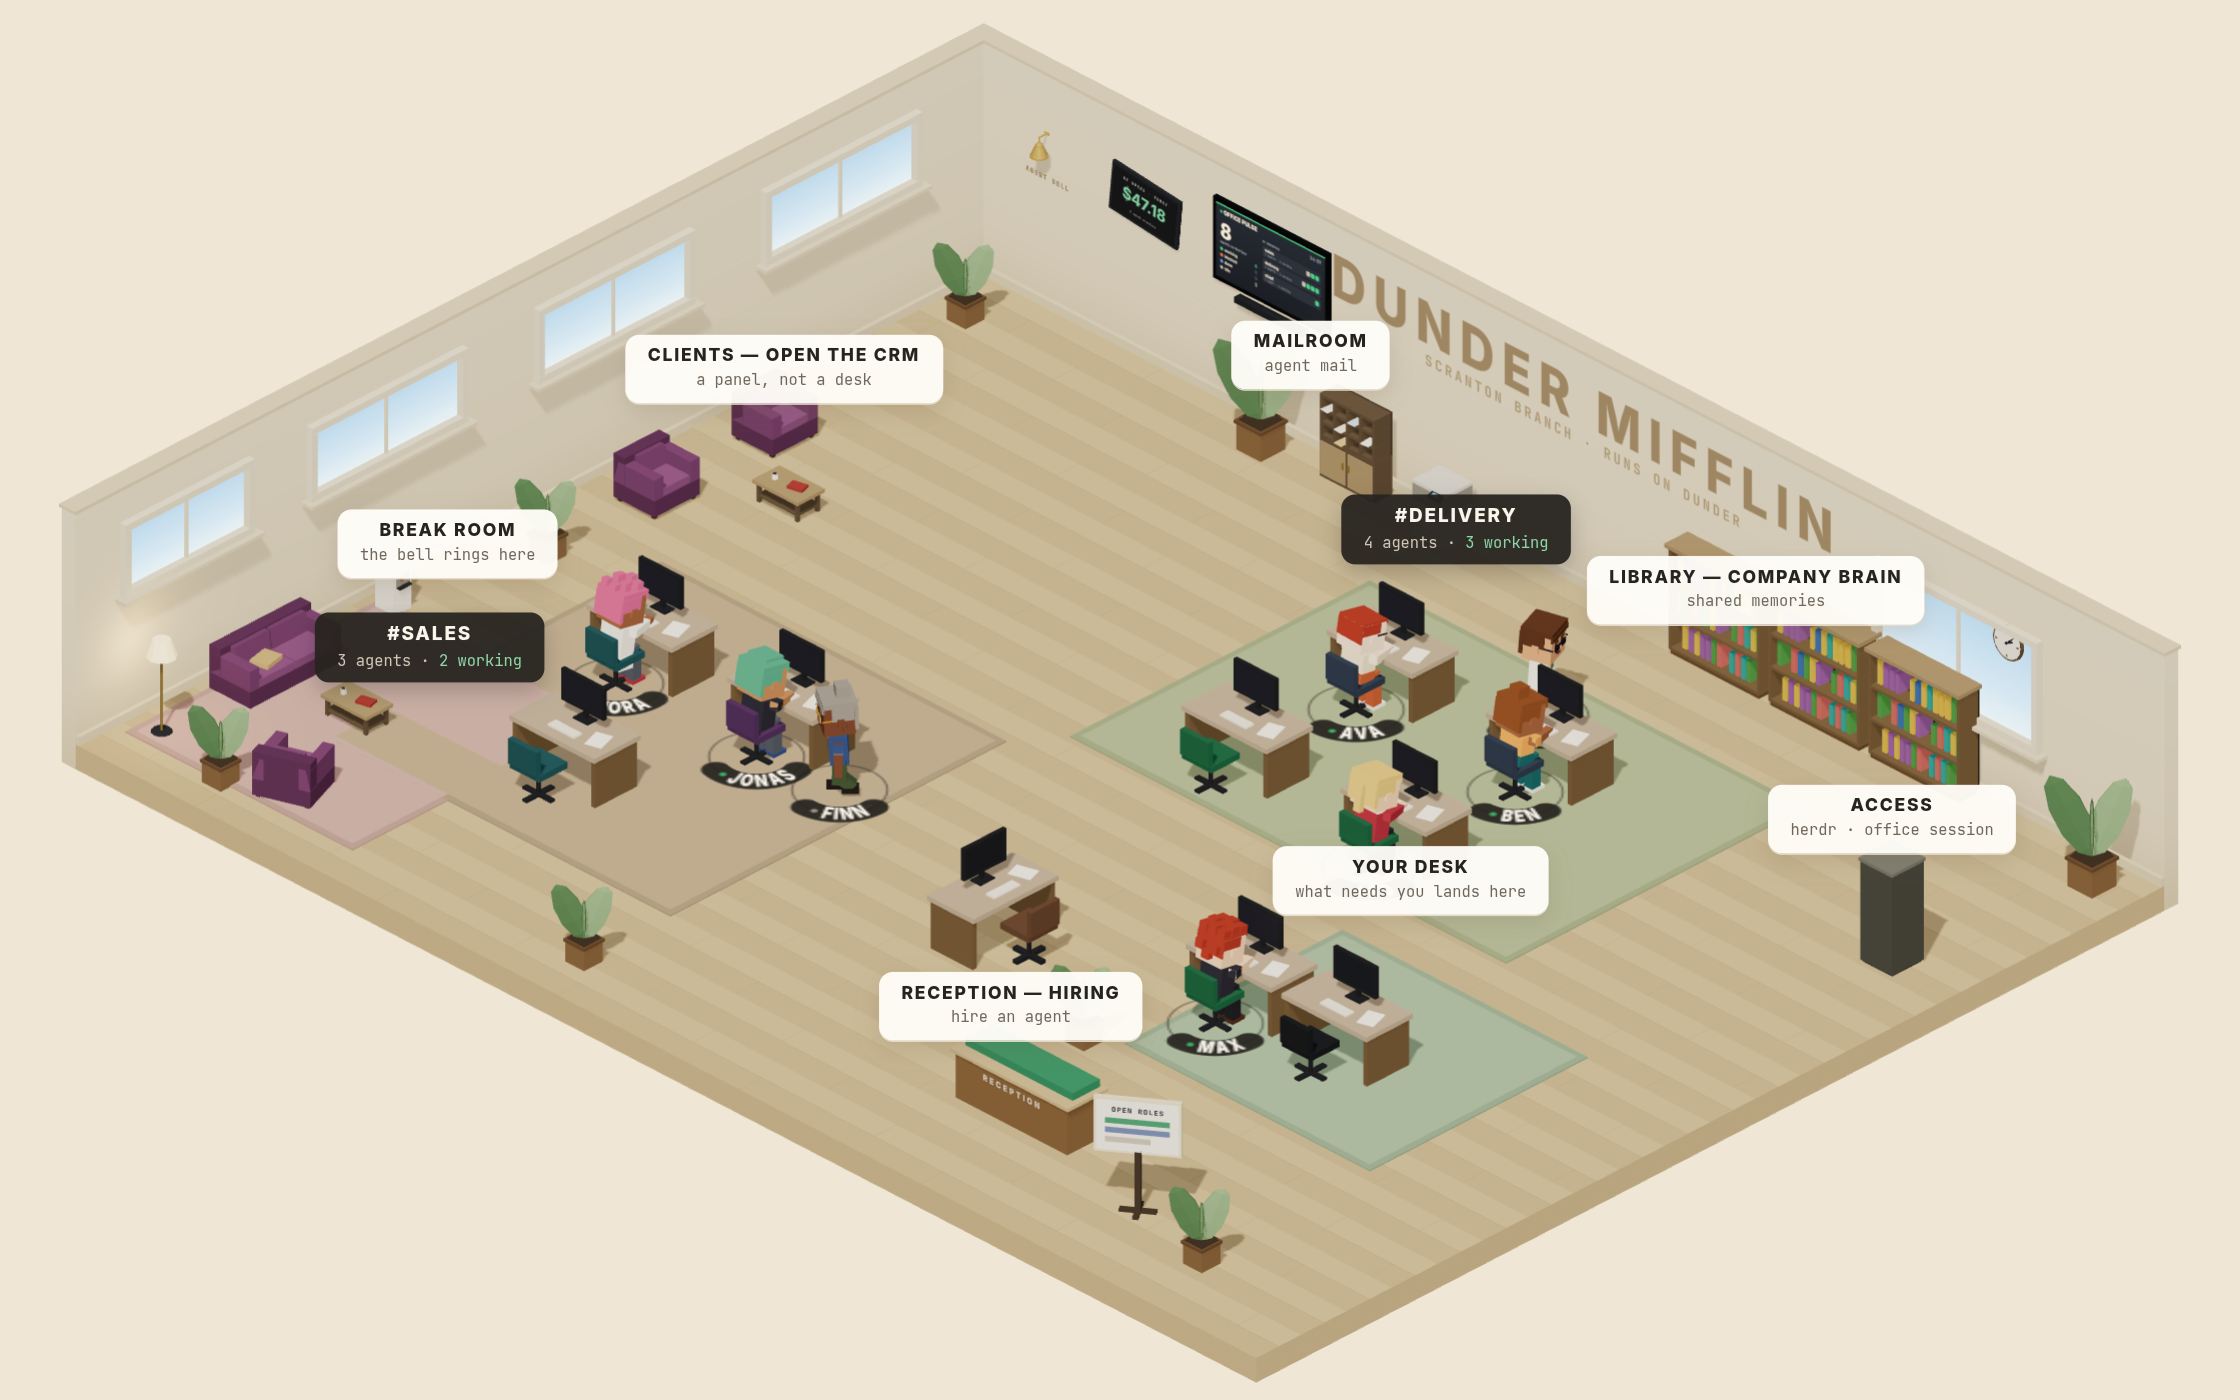
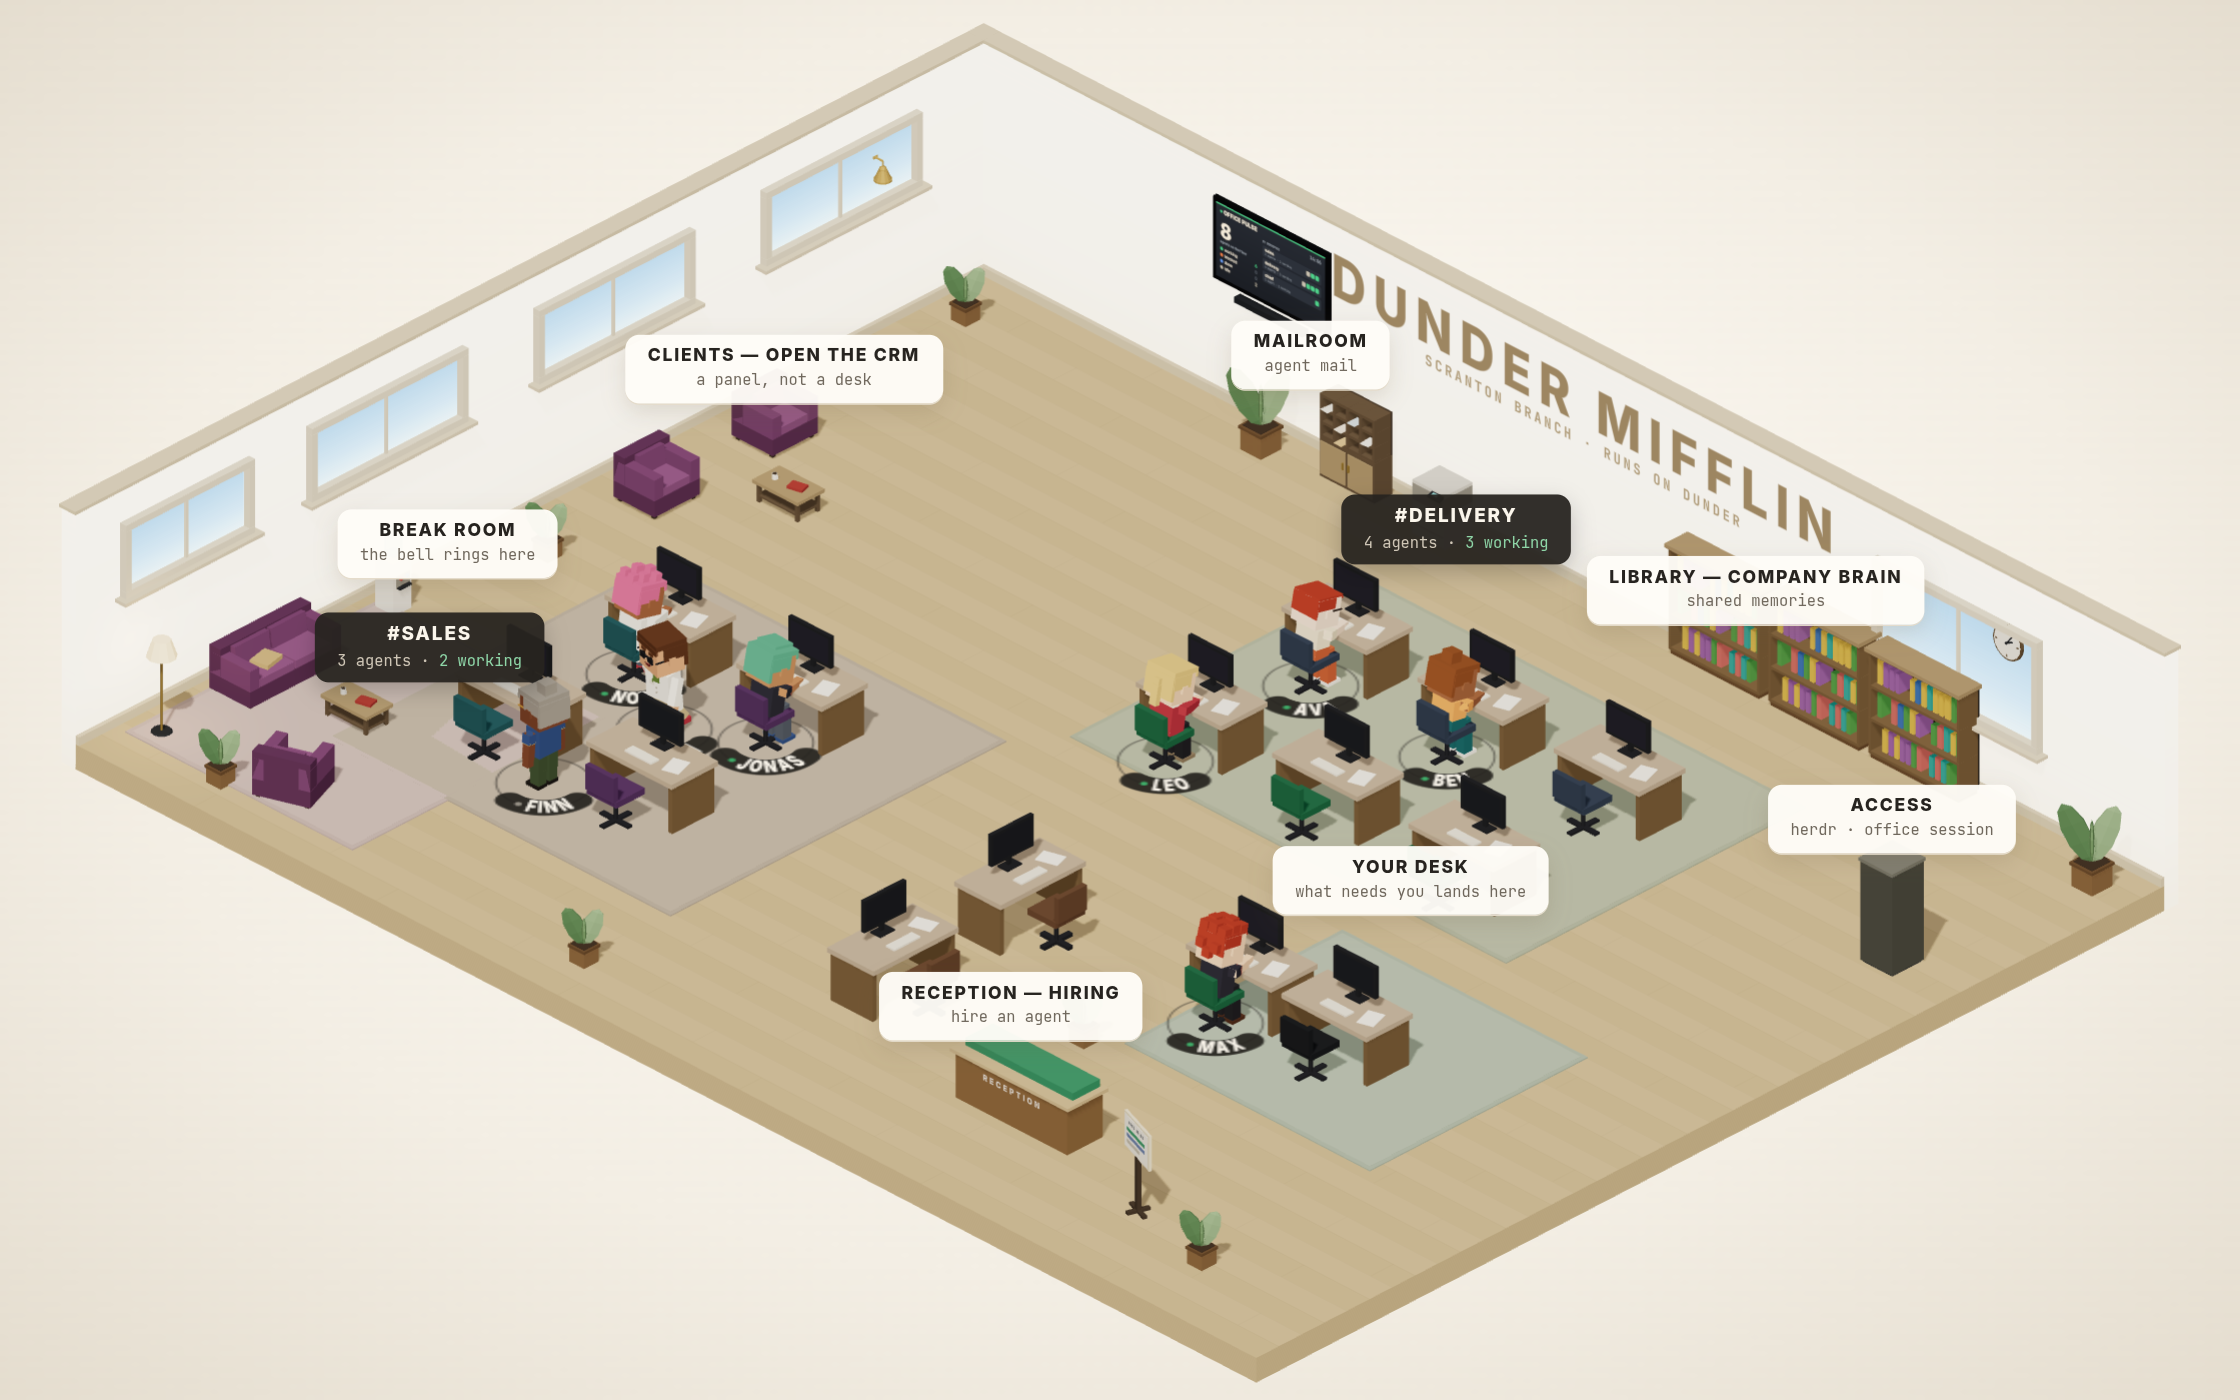
office-vl9.7: near-white cream walls, warm vignette backdrop, muted rugs, fainter floor seams; new M5 screenshots

diff --git a/src/renderer/src/features/office/scene/Room.tsx b/src/renderer/src/features/office/scene/Room.tsx
@@ -6,6 +6,11 @@ import { FONTS } from "../fonts";
 
 const WALL_THICKNESS = 0.3;
 const FLOOR_THICKNESS = 0.45;
+/**
+ * How much of the wall paint is self-lit (see `wallPaint` in Room). Above 1 because ACES
+ * tone mapping compresses highlights: this lands the paint near the reference's #fbf8f1.
+ */
+const WALL_GLOW = 1.6;
 const FRAME_COLOR = "#ece2cc";
 const SILL_COLOR = "#e2d5bb";
 const TRIM_COLOR = "#ddcfb3";
@@ -63,10 +68,10 @@ function usePlankTexture(color: string, width: number, depth: number): CanvasTex
 			context.fillStyle = color;
 			context.fillRect(0, 0, 256, 256);
 			for (let row = 0; row < 8; row += 1) {
-				const shade = row % 2 === 0 ? "rgba(255,248,232,0.05)" : "rgba(80,64,40,0.04)";
+				const shade = row % 2 === 0 ? "rgba(255,248,232,0.03)" : "rgba(80,64,40,0.025)";
 				context.fillStyle = shade;
 				context.fillRect(0, row * 32, 256, 32);
-				context.fillStyle = "rgba(80,64,40,0.09)";
+				context.fillStyle = "rgba(80,64,40,0.05)";
 				context.fillRect(0, row * 32, 256, 1);
 				const seam = (row * 97) % 256;
 				context.fillRect(seam, row * 32, 1, 32);
@@ -178,6 +183,17 @@ export function Room({ room }: { readonly room: RoomSpec }) {
 	const planks = usePlankTexture(room.floorColor, room.width, room.depth);
 	const sky = useSkyTexture();
 	const wallShade = useWallTexture();
+	// The sun barely reaches the two back walls, so lit alone they read grey-beige. A share of
+	// their own paint as emission keeps them the near-white cream of the reference without
+	// brightening the floor; the shade map still darkens them toward the baseboard.
+	const wallPaint = {
+		color: room.wallColor,
+		map: wallShade,
+		emissive: room.wallColor,
+		emissiveMap: wallShade,
+		emissiveIntensity: WALL_GLOW,
+		roughness: 0.95,
+	} as const;
 	const { width, depth, wallHeight: height } = room;
 	const t = WALL_THICKNESS;
 	// The wall boxes span from the slab's underside to `height`; the cap trim sits on top.
@@ -193,7 +209,7 @@ export function Room({ room }: { readonly room: RoomSpec }) {
 				castShadow
 			>
 				<boxGeometry args={[t, height + FLOOR_THICKNESS, depth + t]} />
-				<meshStandardMaterial color={room.wallColor} map={wallShade} roughness={0.95} />
+				<meshStandardMaterial {...wallPaint} />
 			</mesh>
 			<mesh
 				position={[-t / 2, height / 2 - FLOOR_THICKNESS / 2, -depth / 2 - t / 2]}
@@ -201,7 +217,7 @@ export function Room({ room }: { readonly room: RoomSpec }) {
 				castShadow
 			>
 				<boxGeometry args={[width + t, height + FLOOR_THICKNESS, t]} />
-				<meshStandardMaterial color={room.wallColor} map={wallShade} roughness={0.95} />
+				<meshStandardMaterial {...wallPaint} />
 			</mesh>
 			<mesh position={[-width / 2 - t / 2, height + 0.03, -t / 2]}>
 				<boxGeometry args={[t + 0.06, 0.06, depth + t + 0.06]} />

diff --git a/src/renderer/src/features/office/scene/Rug.tsx b/src/renderer/src/features/office/scene/Rug.tsx
@@ -1,9 +1,16 @@
 import type { Zone } from "@shared/layout/schema";
 import { Color } from "three";
 
-/** A zone's floor rug: a darker border with the zone colour inset. */
+/** Rugs keep their zone's hue but read as a soft tint on the floor, like the reference. */
+const SATURATION = 0.55;
+const LIFT = 0.04;
+const BORDER = 0.08;
+
+/** A zone's floor rug: a muted, slightly lifted zone colour inside a thin, slightly darker border. */
 export function Rug({ rug }: { readonly rug: NonNullable<Zone["rug"]> }) {
-	const border = new Color(rug.color).multiplyScalar(0.82).getStyle();
+	const hsl = new Color(rug.color).getHSL({ h: 0, s: 0, l: 0 });
+	const inset = new Color().setHSL(hsl.h, hsl.s * SATURATION, Math.min(1, hsl.l + LIFT));
+	const border = inset.clone().multiplyScalar(0.9);
 	return (
 		<group position={[rug.center.x, 0, rug.center.z]}>
 			<mesh position={[0, 0.012, 0]} receiveShadow>
@@ -11,8 +18,8 @@ export function Rug({ rug }: { readonly rug: NonNullable<Zone["rug"]> }) {
 				<meshStandardMaterial color={border} roughness={1} />
 			</mesh>
 			<mesh position={[0, 0.026, 0]} receiveShadow>
-				<boxGeometry args={[rug.width - 0.24, 0.006, rug.depth - 0.24]} />
-				<meshStandardMaterial color={rug.color} roughness={1} />
+				<boxGeometry args={[rug.width - BORDER * 2, 0.006, rug.depth - BORDER * 2]} />
+				<meshStandardMaterial color={inset} roughness={1} />
 			</mesh>
 		</group>
 	);

diff --git a/src/renderer/src/features/office/scene/Backdrop.tsx b/src/renderer/src/features/office/scene/Backdrop.tsx
@@ -1,0 +1,37 @@
+import { useMemo } from "react";
+import { CanvasTexture, SRGBColorSpace } from "three";
+
+const SIZE = 256;
+
+/**
+ * The page behind the room: warm paper, brightest just above the room's centre
+ * and falling off to a soft darker rim, like the reference. As `scene.background`
+ * it is stretched over the viewport, so the vignette follows the window, not the camera.
+ */
+export function Backdrop() {
+	const texture = useMemo(() => {
+		const canvas = document.createElement("canvas");
+		canvas.width = SIZE;
+		canvas.height = SIZE;
+		const context = canvas.getContext("2d");
+		if (context) {
+			const glow = context.createRadialGradient(
+				SIZE / 2,
+				SIZE * 0.42,
+				SIZE * 0.08,
+				SIZE / 2,
+				SIZE / 2,
+				SIZE * 0.75,
+			);
+			glow.addColorStop(0, "#fdfaf4");
+			glow.addColorStop(0.55, "#f3eee4");
+			glow.addColorStop(1, "#e2dacb");
+			context.fillStyle = glow;
+			context.fillRect(0, 0, SIZE, SIZE);
+		}
+		const result = new CanvasTexture(canvas);
+		result.colorSpace = SRGBColorSpace;
+		return result;
+	}, []);
+	return <primitive attach="background" object={texture} />;
+}

diff --git a/src/renderer/src/features/office/OfficeView.tsx b/src/renderer/src/features/office/OfficeView.tsx
@@ -14,6 +14,7 @@ import { useSelection } from "./interaction/selection-store";
 import { ZoneCards } from "./labels/ZoneCards";
 import type { OfficeModel } from "./model/office-model";
 import { OfficeCamera } from "./OfficeCamera";
+import { Backdrop } from "./scene/Backdrop";
 import { DecorItems } from "./scene/DecorItems";
 import { DeskStation } from "./scene/DeskStation";
 import { Lights } from "./scene/Lights";
@@ -45,7 +46,7 @@ export function OfficeView({ layout, model }: OfficeViewProps) {
 				useEdit.getState().select(null);
 			}}
 		>
-			<color attach="background" args={["#efe6d6"]} />
+			<Backdrop />
 			<OfficeCamera room={layout.room} />
 			<Lights />
 			<Room room={layout.room} />
